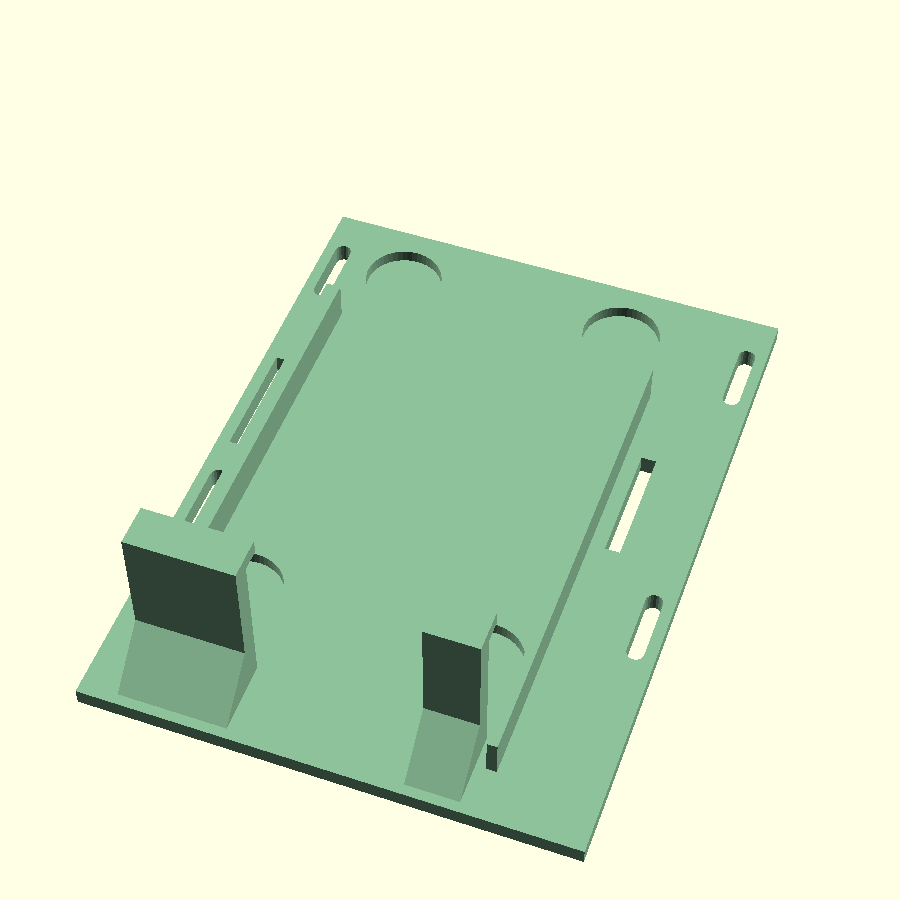
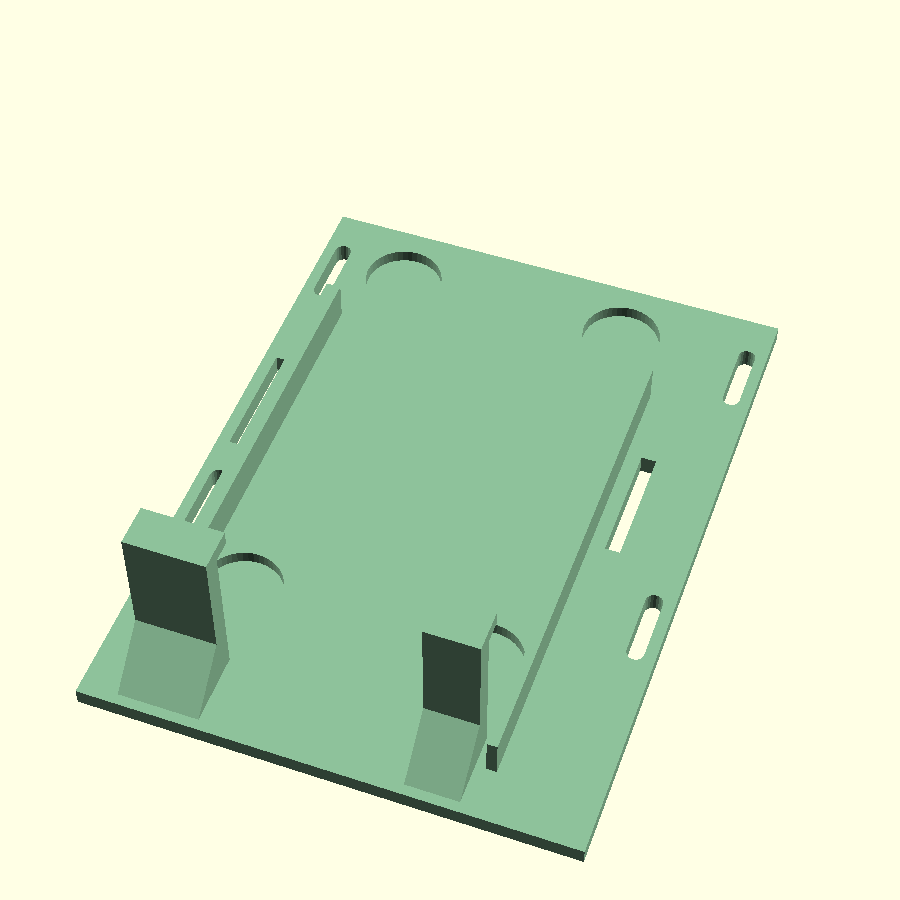
MoCA cradle rev B: power-side pad 5.5 mm narrower for plug relief

Changed region(s): [[0.2178, 0.5911, 0.3111, 0.8089]]

diff --git a/HANDOFF.md b/HANDOFF.md
@@ -5,7 +5,7 @@ Updated 2026-10-18 from Brian's explicit housekeeping confirmations. Read [AGENT
 ## 2026-10-27 MoCA box: ScreenBeam cradle rev B (read first)
 
 - Brian printed the box and fitted it. Findings: the ScreenBeam's rubber feet (13 mm across, 2.25 mm proud; centres ~8 mm in from the long edges and ~16 mm in from the short ends) hold it off the cradle plate, and the keystone-side shelf pad hits the Ethernet keystone, so the cradle can't drop and the jumper ends about an inch short of Coax In. Logged in docs/Fit_Findings.md.
-- Cradle rev B in [c15.scad](work/wall-box-wizard/concept15/c15.scad): the ScreenBeam sits 25 mm lower (`sb_dz`) and 3 mm away from the keystone (`sb_dx`). The keystone-side pad is trimmed, there are four 16 x 2.6 foot pockets, the plate extends down to Z21 and the strap slots are moved. The bosses on the back plate are unchanged, so only the cradle needs reprinting. Renders: `cradle_revB_front.png`, `cradle_revB_part.png`.
+- Cradle rev B in [c15.scad](work/wall-box-wizard/concept15/c15.scad): the ScreenBeam sits 25 mm lower (`sb_dz`) and 3 mm away from the keystone (`sb_dx`). The keystone-side pad is trimmed, the power-side pad is 5.5 mm narrower for plug relief (Brian), there are four 16 x 2.6 foot pockets, the plate extends down to Z21 and the strap slots are moved. The bosses on the back plate are unchanged, so only the cradle needs reprinting. Renders: `cradle_revB_front.png`, `cradle_revB_part.png`.
 - Print file: `outputs/MoCA_Box_2026-10-27/cradle_revB/MoCA_cradle_revB.3mf` (+ STL, README). Brian said to assume it all fits: plug room below the lowered ScreenBeam and keystone clearance were not checked against real parts. Not printed; fit UNKNOWN.
 
 ## 2026-10-27 MoCA wall box rev B: ear-screw slots + straight louvres
